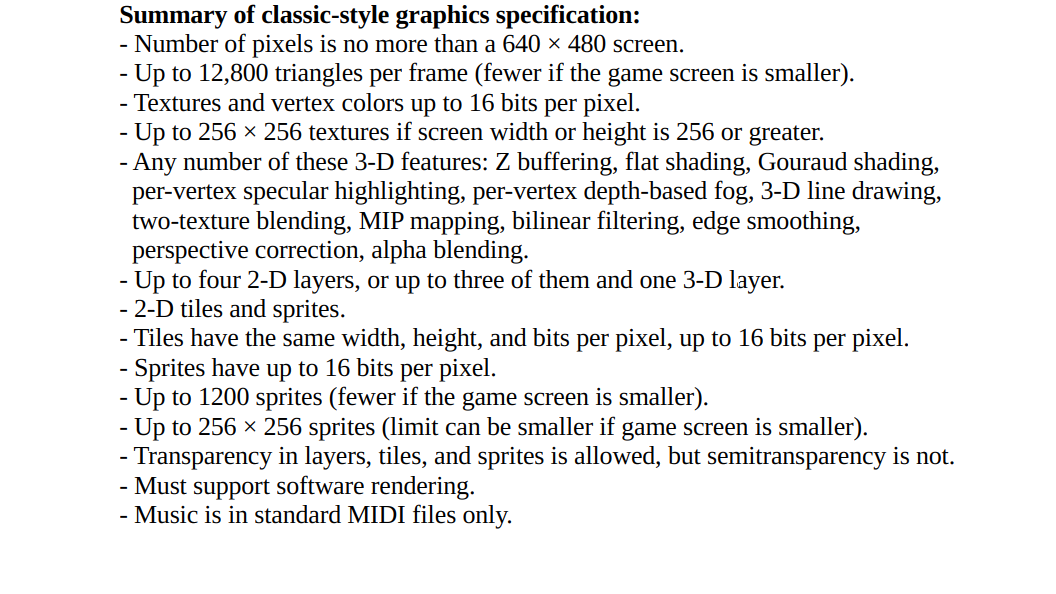
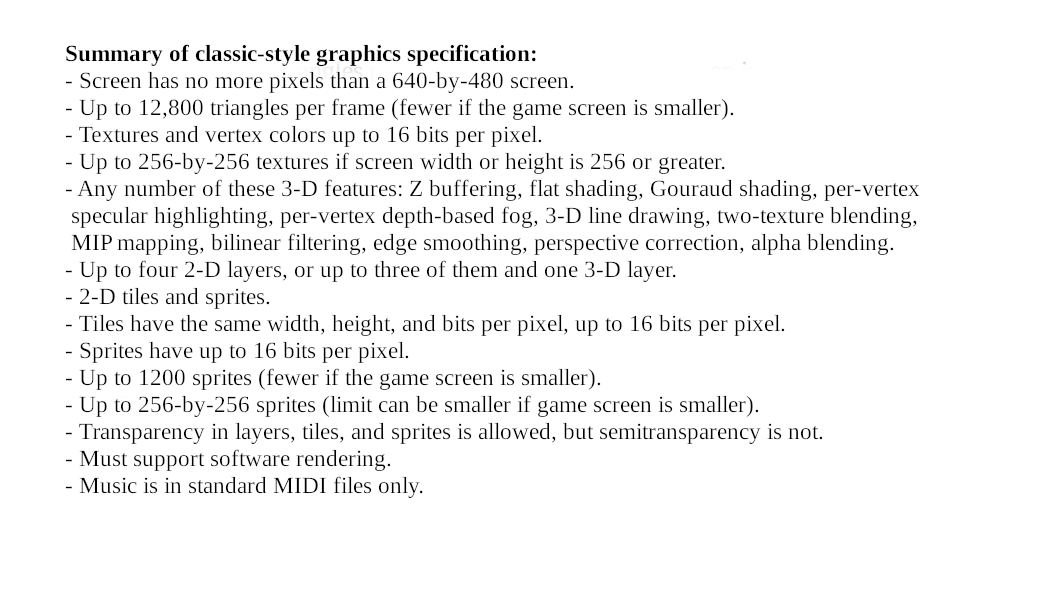
Updating GitHub Pages

Changed region(s): [[0.0625, 0.0, 0.9062, 0.8788]]

diff --git a/graphicsapi.html b/graphicsapi.html
@@ -139,7 +139,7 @@
   <li>2-D affine transformations (which keep parallel lines parallel; examples are scalings, shears, and rotations).</li>
   <li>Translations, rotations and scalings, but no other 2-D affine transformations.</li>
   <li>Translations, rotations, scalings, and reflections, but no other 2-D affine transformations.</li>
-  <li>So-called “<a href="https://learn.microsoft.com/en-us/windows/win32/gdi/raster-operation-codes"><strong>raster operations</strong></a>” (bit-by-bit operations between two images), such as those found in the Windows API (for example, <code>BitBlt</code>) and in the “Microsoft C runtime” (for example, <code>_putimage</code>, <code>_setwritemode</code>).<sup id="fnref:13"><a href="#fn:13" class="footnote" rel="footnote" role="doc-noteref">10</a></sup></li>
+  <li><a href="https://learn.microsoft.com/en-us/windows/win32/gdi/raster-operation-codes"><strong><em>Raster operations</em></strong></a>” (bit-by-bit operations between two images), such as those found in the Windows API (for example, <code>BitBlt</code>) and in the “Microsoft C runtime” (for example, <code>_putimage</code>, <code>_setwritemode</code>).<sup id="fnref:10"><a href="#fn:10" class="footnote" rel="footnote" role="doc-noteref">10</a></sup></li>
   <li><a href="https://ciechanow.ski/alpha-compositing/"><strong>Alpha compositing</strong></a> while drawing 2-D graphics.</li>
   <li>Drawing one image part over another (the “over” operation of Porter and Duff 1984), with optional translucency, but no other nontrivial alpha compositing.  The images may have translucent (semitransparent) or transparent pixels.</li>
   <li>Same as point 6, except the images can’t have translucent pixels.</li>
@@ -197,7 +197,7 @@
    uint32_t * indices, uint32_t numindices, Texture *texture);
 </pre>
 
-<p>Draws a sequence of triangles.  The <code>vertices</code> array is a rectangular array of numbers organized into “vertex blocks”. The number of <code>float</code>s pointed to must equal the number of <code>float</code>s per vertex block times <code>numvertices</code>. The number of indices (<code>numindices</code>) must be a multiple of 3. <code>float</code> is a number in IEEE 754 binary32 format.<sup id="fnref:10"><a href="#fn:10" class="footnote" rel="footnote" role="doc-noteref">11</a></sup></p>
+<p>Draws a sequence of triangles.  The <code>vertices</code> array is a rectangular array of numbers organized into “vertex blocks”. The number of <code>float</code>s pointed to must equal the number of <code>float</code>s per vertex block times <code>numvertices</code>. The number of indices (<code>numindices</code>) must be a multiple of 3. <code>float</code> is a number in IEEE 754 binary32 format.<sup id="fnref:11"><a href="#fn:11" class="footnote" rel="footnote" role="doc-noteref">11</a></sup></p>
 
 <blockquote>
   <p><strong>Note:</strong> As given in the classic graphics specification, the number of vertices per frame should be no more than 38,400 for a screen resolution of 640 × 480.</p>
@@ -288,10 +288,10 @@ DrawTriangleStrip(State3D *state, float* vertices, uint32_t numvertices);
       <li>The <a href="https://learn.microsoft.com/en-us/previous-versions/windows/drivers/display/"><strong>archived documentation for the XDDM</strong></a>, the driver model supported in Windows 2000, Windows XP, Windows Vista, and Windows 7.</li>
     </ul>
   </li>
-  <li>Windows CE’s GDI.<sup id="fnref:11"><a href="#fn:11" class="footnote" rel="footnote" role="doc-noteref">12</a></sup>  Windows CE was an operating system for embedded and handheld computers.
+  <li>Windows CE’s GDI.<sup id="fnref:12"><a href="#fn:12" class="footnote" rel="footnote" role="doc-noteref">12</a></sup>  Windows CE was an operating system for embedded and handheld computers.
     <ul>
       <li>Jon Christiansen, “Microsoft Windows CE Graphics Features” (undated, about 1997), describes Windows CE 2.0’s version of the GDI and its 2-D graphics features.</li>
-      <li><a href="https://learn.microsoft.com/en-us/previous-versions/windows/embedded/ms905330%28v=msdn.10%29"><strong>Windows CE 5.0 documentation</strong></a> (2006) has useful information on 2-D graphics operations for embedded and handheld computers, especially the pages on <a href="https://learn.microsoft.com/en-us/previous-versions/windows/embedded/aa447503%28v=msdn.10%29"><strong>video driver recommendations</strong></a>, <a href="https://learn.microsoft.com/en-us/previous-versions/windows/embedded/ms892485%28v=msdn.10%29"><strong>line drawing</strong></a>, and <a href="https://learn.microsoft.com/en-us/previous-versions/windows/embedded/aa452651%28v=msdn.10%29"><strong>supported features</strong></a>.  (This information did not materially change in <a href="https://learn.microsoft.com/en-us/previous-versions/windows/embedded/ee504812%28v=winembedded.60%29"><strong>Windows Embedded CE 6.0</strong></a> [2010].)  Notably, relatively few 2-D graphics operations (especially solid color fills, image area copying, and simple outlines of line segments) were worth accelerating in hardware; more complicated ones could be done in software or broken into simpler ones.<sup id="fnref:12"><a href="#fn:12" class="footnote" rel="footnote" role="doc-noteref">13</a></sup></li>
+      <li><a href="https://learn.microsoft.com/en-us/previous-versions/windows/embedded/ms905330%28v=msdn.10%29"><strong>Windows CE 5.0 documentation</strong></a> (2006) has useful information on 2-D graphics operations for embedded and handheld computers, especially the pages on <a href="https://learn.microsoft.com/en-us/previous-versions/windows/embedded/aa447503%28v=msdn.10%29"><strong>video driver recommendations</strong></a>, <a href="https://learn.microsoft.com/en-us/previous-versions/windows/embedded/ms892485%28v=msdn.10%29"><strong>line drawing</strong></a>, and <a href="https://learn.microsoft.com/en-us/previous-versions/windows/embedded/aa452651%28v=msdn.10%29"><strong>supported features</strong></a>.  (This information did not materially change in <a href="https://learn.microsoft.com/en-us/previous-versions/windows/embedded/ee504812%28v=winembedded.60%29"><strong>Windows Embedded CE 6.0</strong></a> [2010].)  Notably, relatively few 2-D graphics operations (especially solid color fills, image area copying, and simple outlines of line segments) were worth accelerating in hardware; more complicated ones could be done in software or broken into simpler ones.<sup id="fnref:13"><a href="#fn:13" class="footnote" rel="footnote" role="doc-noteref">13</a></sup></li>
     </ul>
   </li>
 </ul>
@@ -335,17 +335,17 @@ DrawTriangleStrip(State3D *state, float* vertices, uint32_t numvertices);
     <li id="fn:9">
       <p>A discussion of text rendering methods is beyond the scope of this document, but the following are pointers: <a href="https://behdad.org/text2024"><strong>State of text rendering</strong></a>, <a href="https://mrandri19.github.io/2019/08/08/modern-text-rendering-linux-ep2.html"><strong>Antialiasing (smoothing)</strong></a>, <a href="https://alphapixeldev.com/sdf-vs-msdf-vs-slug-vs-rive-gpu-text-rendering/"><strong>Hardware-accelerated text rendering</strong></a>, <a href="http://rastertragedy.com/"><strong>The raster tragedy</strong></a>.  Furthermore, the addition of scalable colored graphics, especially <em>emoji</em>, to outline fonts was developed after 2000, and <a href="http://rastertragedy.com/RTRCh2.htm#Sec2"><strong>“subpixel” smoothing</strong></a> of glyphs, such as the ClearType technology announced in November 1998, was not widely deployed before 2000. <a href="#fnref:9" class="reversefootnote" role="doc-backlink">&#8617;</a></p>
     </li>
-    <li id="fn:13">
-      <p>One of these raster operations, the bitwise “or”, enables a <a href="https://www.youtube.com/watch?v=GuFVKPT3ROY"><strong>rudimentary blending technique</strong></a> involving two images whose pixels map to entries in a color palette: one (the foreground) sets only the upper bits of each pixel; the other (the background) sets only the lower bits.  The bitwise “or” of the foreground and background pixels is a pixel that maps to a “blend” of the original pixels; where a foreground pixel is 0, the unblended background pixel is the result. <a href="#fnref:13" class="reversefootnote" role="doc-backlink">&#8617;</a></p>
-    </li>
     <li id="fn:10">
-      <p>This function and others in this section were inspired by APIs for drawing a block of 3-D primitives, such as the API introduced in DirectX 5’s Direct3D (Immediate Mode).  By contrast, the approach of <em>execute buffers</em>, found in DirectX versions 2 and 3, is not adopted in this section since many game developers reportedly found it hard to use.  Likewise, Direct3D Retained Mode, a high-level API built on top of Direct3D Immediate Mode, was very rarely used in practice. <a href="#fnref:10" class="reversefootnote" role="doc-backlink">&#8617;</a></p>
+      <p>One of these raster operations, the bitwise “or”, enables a <a href="https://www.youtube.com/watch?v=GuFVKPT3ROY"><strong>rudimentary blending technique</strong></a> involving two images whose pixels map to entries in a color palette: one (the foreground) sets only the upper bits of each pixel; the other (the background) sets only the lower bits.  The bitwise “or” of the foreground and background pixels is a pixel that maps to a “blend” of the original pixels; where a foreground pixel is 0, the unblended background pixel is the result. <a href="#fnref:10" class="reversefootnote" role="doc-backlink">&#8617;</a></p>
     </li>
     <li id="fn:11">
-      <p>In addition to the GDI, Windows CE 5.0 supports <a href="https://learn.microsoft.com/en-us/previous-versions/windows/embedded/aa452478%28v=msdn.10%29"><strong>Direct3D Mobile</strong></a>, and Windows CE .NET 4.2 supports a version of <a href="https://learn.microsoft.com/en-us/previous-versions/windows/embedded/ms892057%28v=msdn.10%29"><strong>Direct3D</strong></a>.  Both APIs approximate pre-2000 three-dimensional computer graphics. <a href="#fnref:11" class="reversefootnote" role="doc-backlink">&#8617;</a></p>
+      <p>This function and others in this section were inspired by APIs for drawing a block of 3-D primitives, such as the API introduced in DirectX 5’s Direct3D (Immediate Mode).  By contrast, the approach of <em>execute buffers</em>, found in DirectX versions 2 and 3, is not adopted in this section since many game developers reportedly found it hard to use.  Likewise, Direct3D Retained Mode, a high-level API built on top of Direct3D Immediate Mode, was very rarely used in practice. <a href="#fnref:11" class="reversefootnote" role="doc-backlink">&#8617;</a></p>
     </li>
     <li id="fn:12">
-      <p>Indeed, much “hardware acceleration” in graphics is simply the offloading of memory reads and writes to other processors.  For example, a CPU can tell another processor to draw a line or circle onto a frame buffer, or to copy a rectangular area of memory, or to fill it with a 2-byte color value, rather than do those operations itself. <a href="#fnref:12" class="reversefootnote" role="doc-backlink">&#8617;</a></p>
+      <p>In addition to the GDI, Windows CE 5.0 supports <a href="https://learn.microsoft.com/en-us/previous-versions/windows/embedded/aa452478%28v=msdn.10%29"><strong>Direct3D Mobile</strong></a>, and Windows CE .NET 4.2 supports a version of <a href="https://learn.microsoft.com/en-us/previous-versions/windows/embedded/ms892057%28v=msdn.10%29"><strong>Direct3D</strong></a>.  Both APIs approximate pre-2000 three-dimensional computer graphics. <a href="#fnref:12" class="reversefootnote" role="doc-backlink">&#8617;</a></p>
+    </li>
+    <li id="fn:13">
+      <p>Indeed, much “hardware acceleration” in graphics is simply the offloading of memory reads and writes to other processors.  For example, a CPU can tell another processor to draw a line or circle onto a frame buffer, or to copy a rectangular area of memory, or to fill it with a 2-byte color value, rather than do those operations itself. <a href="#fnref:13" class="reversefootnote" role="doc-backlink">&#8617;</a></p>
     </li>
   </ol>
 </div>

diff --git a/graphicsapi.md b/graphicsapi.md
@@ -88,7 +88,7 @@ It is unclear whether to include any of the following in the lean 2-D graphics A
 1. 2-D affine transformations (which keep parallel lines parallel; examples are scalings, shears, and rotations).
 2. Translations, rotations and scalings, but no other 2-D affine transformations.
 3. Translations, rotations, scalings, and reflections, but no other 2-D affine transformations.
-4. So-called "[**raster operations**](https://learn.microsoft.com/en-us/windows/win32/gdi/raster-operation-codes)" (bit-by-bit operations between two images), such as those found in the Windows API (for example, `BitBlt`) and in the "Microsoft C runtime" (for example, `_putimage`, `_setwritemode`).[^13]
+4. [**_Raster operations_**](https://learn.microsoft.com/en-us/windows/win32/gdi/raster-operation-codes)" (bit-by-bit operations between two images), such as those found in the Windows API (for example, `BitBlt`) and in the "Microsoft C runtime" (for example, `_putimage`, `_setwritemode`).[^10]
 5. [**Alpha compositing**](https://ciechanow.ski/alpha-compositing/) while drawing 2-D graphics.
 6. Drawing one image part over another (the "over" operation of Porter and Duff 1984), with optional translucency, but no other nontrivial alpha compositing.  The images may have translucent (semitransparent) or transparent pixels.
 7. Same as point 6, except the images can't have translucent pixels.
@@ -138,7 +138,7 @@ Stencil buffers, bump mapping, and three- or four-texture blending are borderlin
     DrawTrianglesOneTex(State3D *state, float* vertices, uint32_t numvertices,
        uint32_t * indices, uint32_t numindices, Texture *texture);
 
-Draws a sequence of triangles.  The `vertices` array is a rectangular array of numbers organized into "vertex blocks". The number of `float`s pointed to must equal the number of `float`s per vertex block times `numvertices`. The number of indices (`numindices`) must be a multiple of 3. `float` is a number in IEEE 754 binary32 format.[^10]
+Draws a sequence of triangles.  The `vertices` array is a rectangular array of numbers organized into "vertex blocks". The number of `float`s pointed to must equal the number of `float`s per vertex block times `numvertices`. The number of indices (`numindices`) must be a multiple of 3. `float` is a number in IEEE 754 binary32 format.[^11]
 
 > **Note:** As given in the classic graphics specification, the number of vertices per frame should be no more than 38,400 for a screen resolution of 640 &times; 480.
 
@@ -212,9 +212,9 @@ Information about the Windows graphics device interface (GDI) is scattered in ma
 - The Windows NT GDI is described in the following references.  Its dashed-line feature did not materially change between the two references.
      - Chapter 3 of the _Graphics Driver Design Guide_, part of the Windows NT 4.0 Device Driver Kit.
      - The [**archived documentation for the XDDM**](https://learn.microsoft.com/en-us/previous-versions/windows/drivers/display/), the driver model supported in Windows 2000, Windows XP, Windows Vista, and Windows 7.
-- Windows CE's GDI.[^11]  Windows CE was an operating system for embedded and handheld computers.
+- Windows CE's GDI.[^12]  Windows CE was an operating system for embedded and handheld computers.
     - Jon Christiansen, "Microsoft Windows CE Graphics Features" (undated, about 1997), describes Windows CE 2.0's version of the GDI and its 2-D graphics features.
-    - [**Windows CE 5.0 documentation**](https://learn.microsoft.com/en-us/previous-versions/windows/embedded/ms905330%28v=msdn.10%29) (2006) has useful information on 2-D graphics operations for embedded and handheld computers, especially the pages on [**video driver recommendations**](https://learn.microsoft.com/en-us/previous-versions/windows/embedded/aa447503%28v=msdn.10%29), [**line drawing**](https://learn.microsoft.com/en-us/previous-versions/windows/embedded/ms892485%28v=msdn.10%29), and [**supported features**](https://learn.microsoft.com/en-us/previous-versions/windows/embedded/aa452651%28v=msdn.10%29).  (This information did not materially change in [**Windows Embedded CE 6.0**](https://learn.microsoft.com/en-us/previous-versions/windows/embedded/ee504812%28v=winembedded.60%29) \[2010\].)  Notably, relatively few 2-D graphics operations (especially solid color fills, image area copying, and simple outlines of line segments) were worth accelerating in hardware; more complicated ones could be done in software or broken into simpler ones.[^12]
+    - [**Windows CE 5.0 documentation**](https://learn.microsoft.com/en-us/previous-versions/windows/embedded/ms905330%28v=msdn.10%29) (2006) has useful information on 2-D graphics operations for embedded and handheld computers, especially the pages on [**video driver recommendations**](https://learn.microsoft.com/en-us/previous-versions/windows/embedded/aa447503%28v=msdn.10%29), [**line drawing**](https://learn.microsoft.com/en-us/previous-versions/windows/embedded/ms892485%28v=msdn.10%29), and [**supported features**](https://learn.microsoft.com/en-us/previous-versions/windows/embedded/aa452651%28v=msdn.10%29).  (This information did not materially change in [**Windows Embedded CE 6.0**](https://learn.microsoft.com/en-us/previous-versions/windows/embedded/ee504812%28v=winembedded.60%29) \[2010\].)  Notably, relatively few 2-D graphics operations (especially solid color fills, image area copying, and simple outlines of line segments) were worth accelerating in hardware; more complicated ones could be done in software or broken into simpler ones.[^13]
 
 <a id=License></a>
 
@@ -244,10 +244,10 @@ Any copyright to this page is released to the Public Domain.  In case this is no
 
 [^9]: A discussion of text rendering methods is beyond the scope of this document, but the following are pointers: [**State of text rendering**](https://behdad.org/text2024), [**Antialiasing (smoothing)**](https://mrandri19.github.io/2019/08/08/modern-text-rendering-linux-ep2.html), [**Hardware-accelerated text rendering**](https://alphapixeldev.com/sdf-vs-msdf-vs-slug-vs-rive-gpu-text-rendering/), [**The raster tragedy**](http://rastertragedy.com/).  Furthermore, the addition of scalable colored graphics, especially _emoji_, to outline fonts was developed after 2000, and [**"subpixel" smoothing**](http://rastertragedy.com/RTRCh2.htm#Sec2) of glyphs, such as the ClearType technology announced in November 1998, was not widely deployed before 2000.
 
-[^10]: This function and others in this section were inspired by APIs for drawing a block of 3-D primitives, such as the API introduced in DirectX 5's Direct3D (Immediate Mode).  By contrast, the approach of _execute buffers_, found in DirectX versions 2 and 3, is not adopted in this section since many game developers reportedly found it hard to use.  Likewise, Direct3D Retained Mode, a high-level API built on top of Direct3D Immediate Mode, was very rarely used in practice.
+[^10]: One of these raster operations, the bitwise "or", enables a [**rudimentary blending technique**](https://www.youtube.com/watch?v=GuFVKPT3ROY) involving two images whose pixels map to entries in a color palette: one (the foreground) sets only the upper bits of each pixel; the other (the background) sets only the lower bits.  The bitwise "or" of the foreground and background pixels is a pixel that maps to a "blend" of the original pixels; where a foreground pixel is 0, the unblended background pixel is the result.
 
-[^11]: In addition to the GDI, Windows CE 5.0 supports [**Direct3D Mobile**](https://learn.microsoft.com/en-us/previous-versions/windows/embedded/aa452478%28v=msdn.10%29), and Windows CE .NET 4.2 supports a version of [**Direct3D**](https://learn.microsoft.com/en-us/previous-versions/windows/embedded/ms892057%28v=msdn.10%29).  Both APIs approximate pre-2000 three-dimensional computer graphics.
+[^11]: This function and others in this section were inspired by APIs for drawing a block of 3-D primitives, such as the API introduced in DirectX 5's Direct3D (Immediate Mode).  By contrast, the approach of _execute buffers_, found in DirectX versions 2 and 3, is not adopted in this section since many game developers reportedly found it hard to use.  Likewise, Direct3D Retained Mode, a high-level API built on top of Direct3D Immediate Mode, was very rarely used in practice.
 
-[^12]: Indeed, much "hardware acceleration" in graphics is simply the offloading of memory reads and writes to other processors.  For example, a CPU can tell another processor to draw a line or circle onto a frame buffer, or to copy a rectangular area of memory, or to fill it with a 2-byte color value, rather than do those operations itself.
+[^12]: In addition to the GDI, Windows CE 5.0 supports [**Direct3D Mobile**](https://learn.microsoft.com/en-us/previous-versions/windows/embedded/aa452478%28v=msdn.10%29), and Windows CE .NET 4.2 supports a version of [**Direct3D**](https://learn.microsoft.com/en-us/previous-versions/windows/embedded/ms892057%28v=msdn.10%29).  Both APIs approximate pre-2000 three-dimensional computer graphics.
 
-[^13]: One of these raster operations, the bitwise "or", enables a [**rudimentary blending technique**](https://www.youtube.com/watch?v=GuFVKPT3ROY) involving two images whose pixels map to entries in a color palette: one (the foreground) sets only the upper bits of each pixel; the other (the background) sets only the lower bits.  The bitwise "or" of the foreground and background pixels is a pixel that maps to a "blend" of the original pixels; where a foreground pixel is 0, the unblended background pixel is the result.
+[^13]: Indeed, much "hardware acceleration" in graphics is simply the offloading of memory reads and writes to other processors.  For example, a CPU can tell another processor to draw a line or circle onto a frame buffer, or to copy a rectangular area of memory, or to fill it with a 2-byte color value, rather than do those operations itself.
